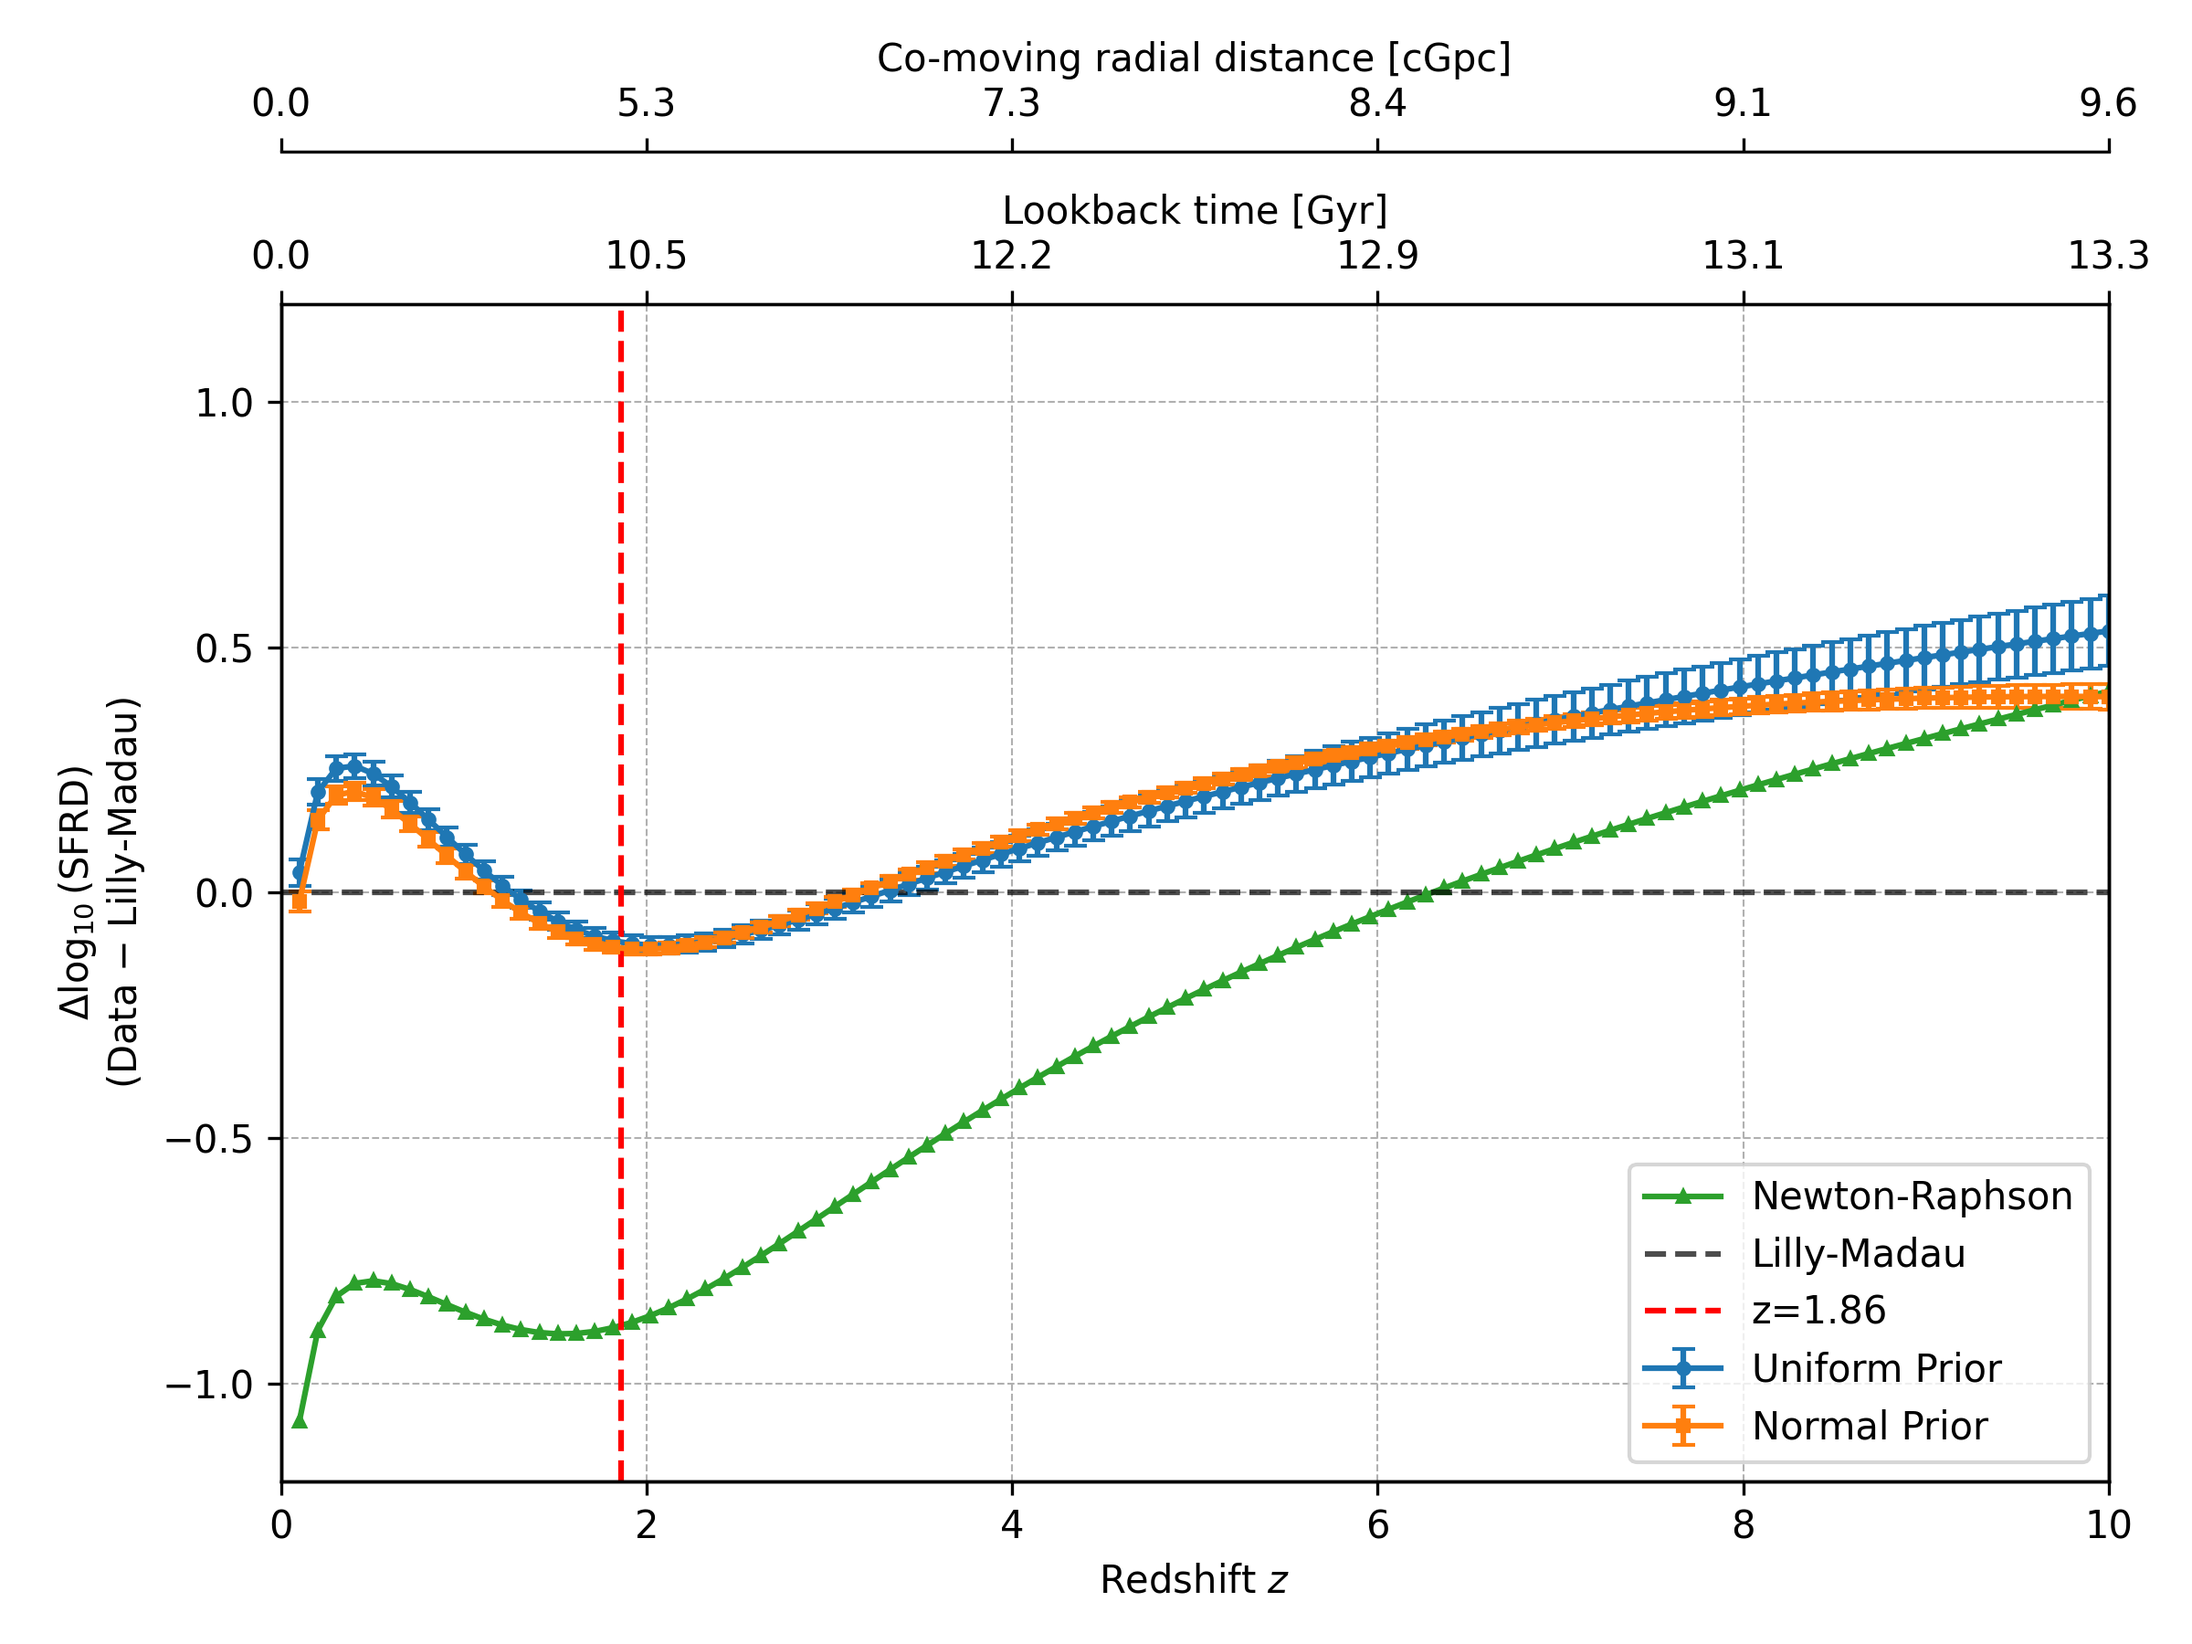
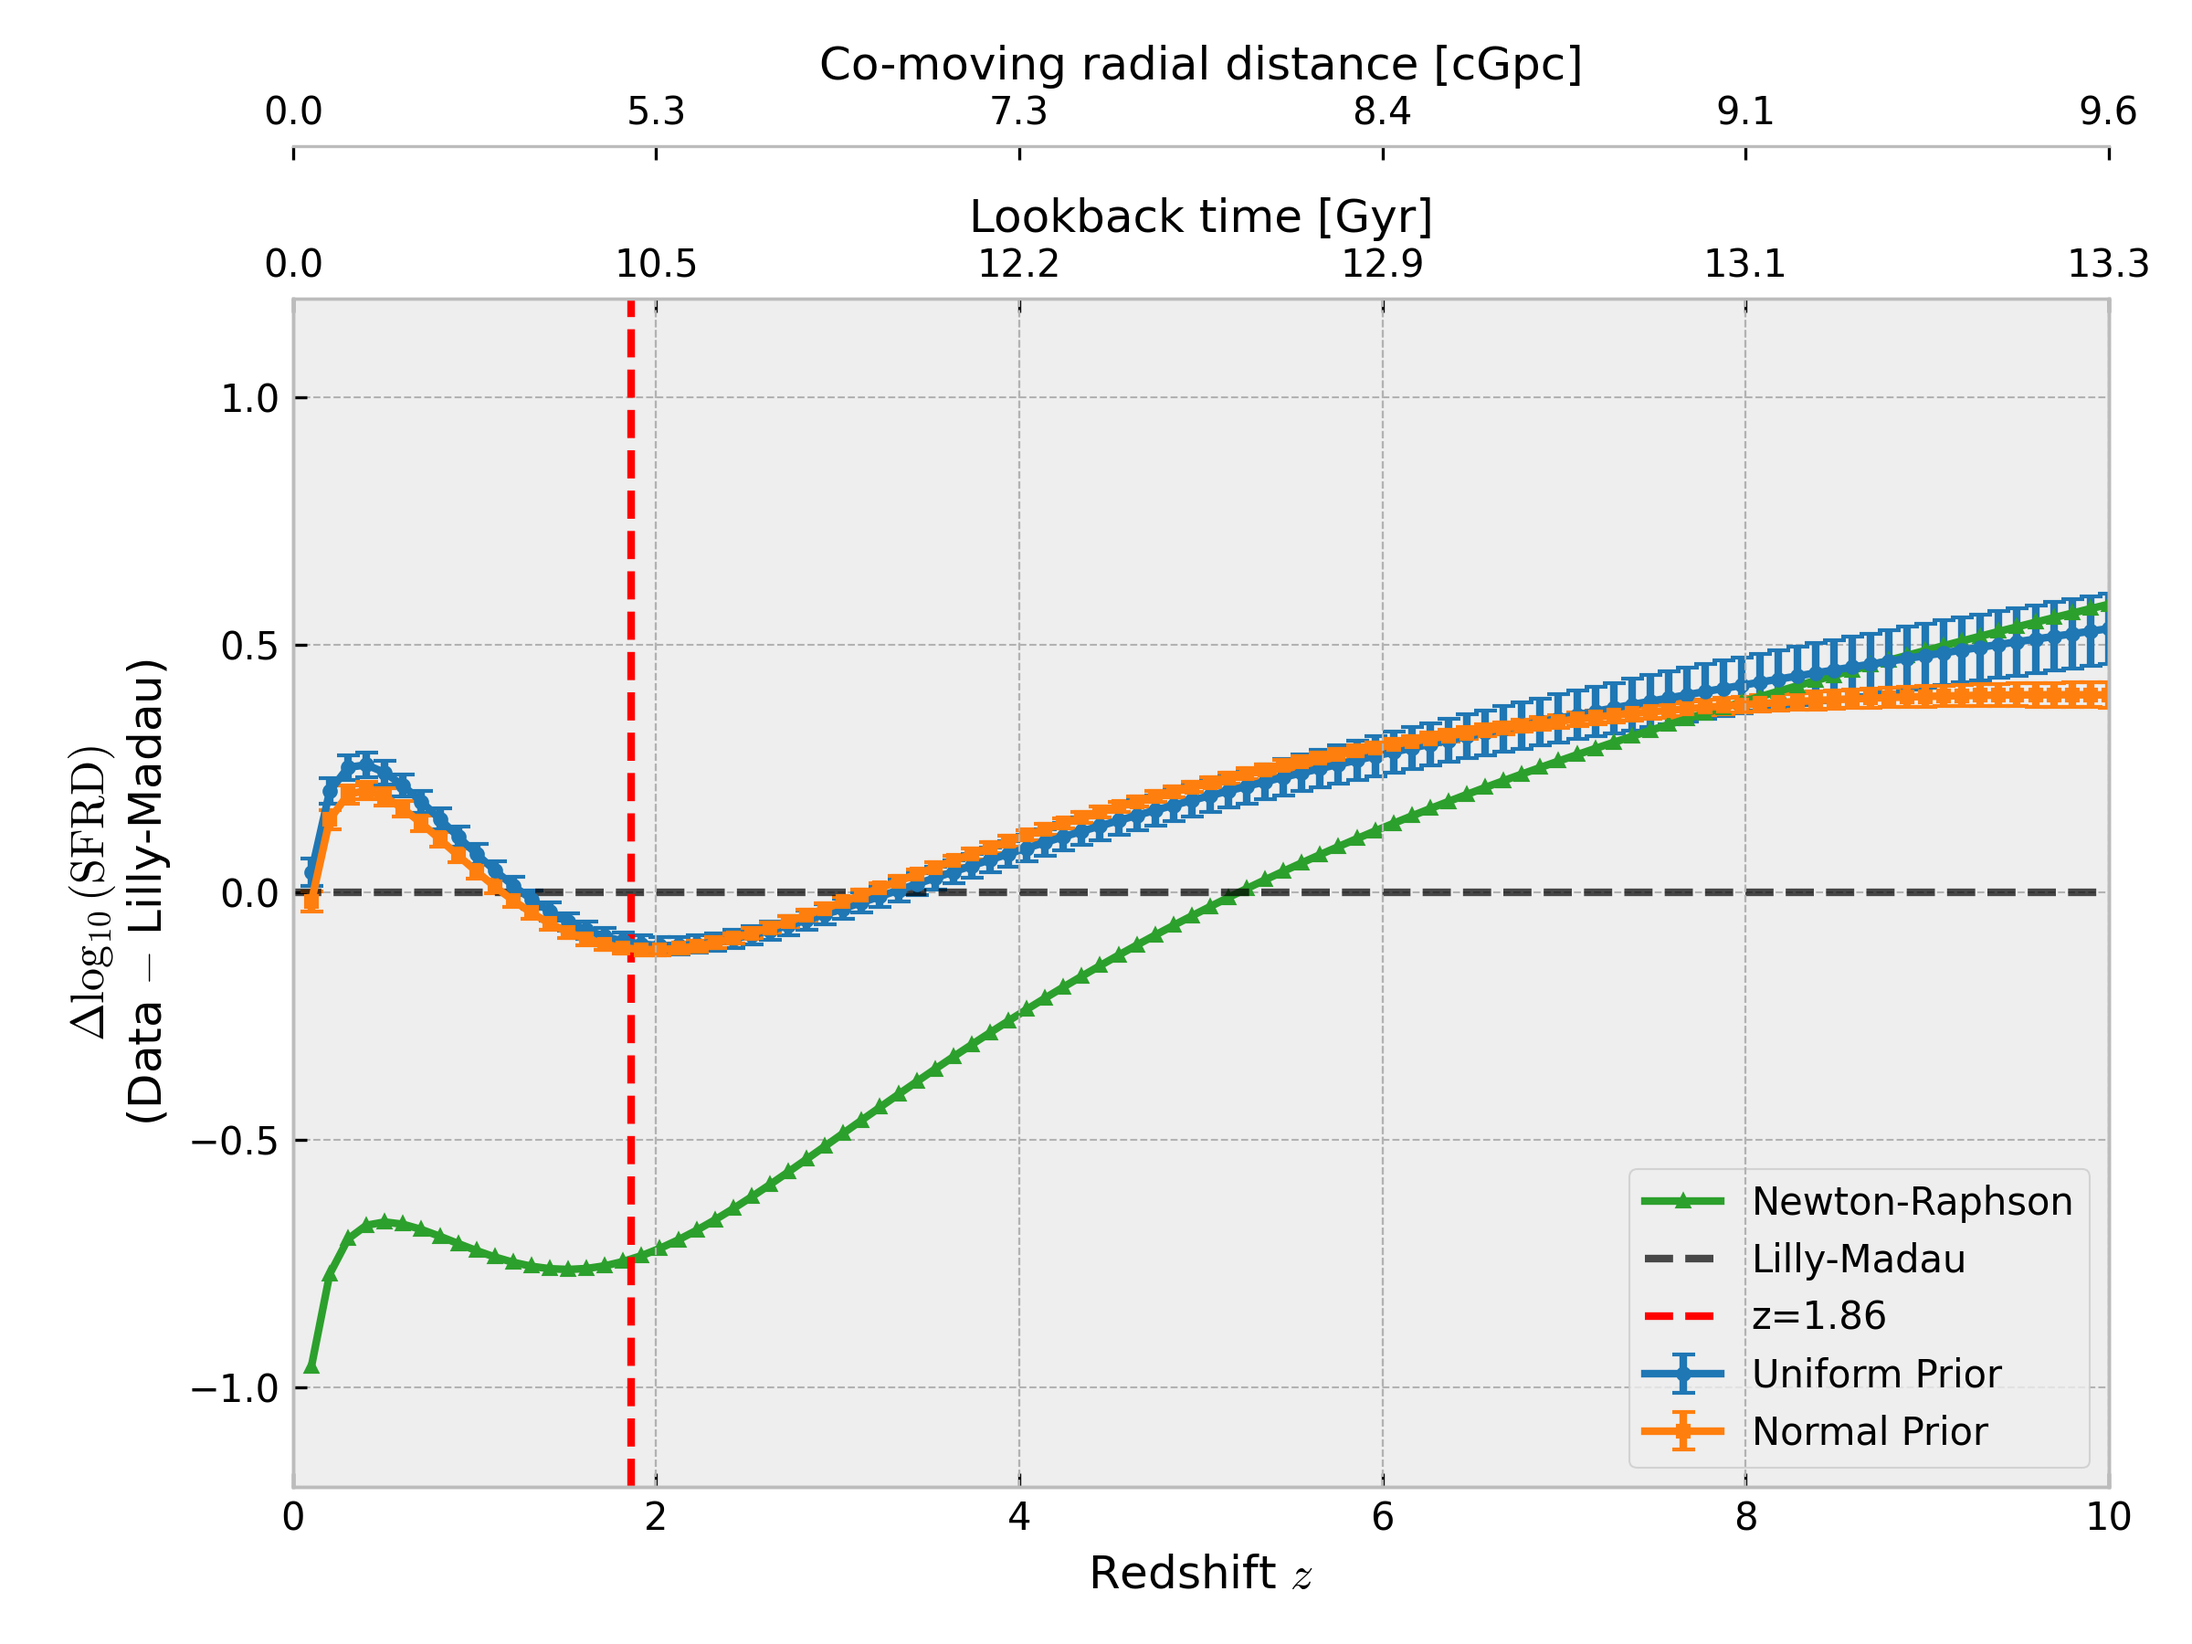
bmh+colors

diff --git a/method_comparison/sfrd.py b/method_comparison/sfrd.py
@@ -112,6 +112,11 @@ log_sfrd_lm = np.log10(sfrd_lilly_madau)
 
 
 # Plot
+## set theme for the plot
+plt.style.use('bmh')
+# Reset color cycle to default
+plt.rcParams["axes.prop_cycle"] = plt.matplotlib.rcParamsDefault["axes.prop_cycle"]
+
 fig, ax1 = plt.subplots(figsize=(8, 6))
 ax2 = ax1.twiny()
 ax3 = ax1.twiny()
